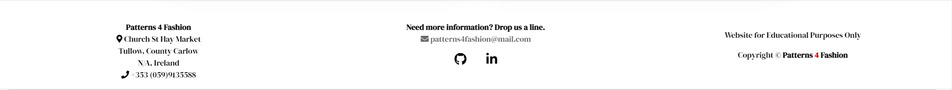
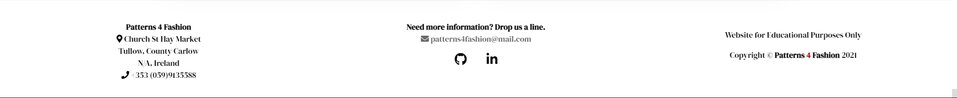
Fix carousel image  responsiveness on mobile

diff --git a/static/css/base.css b/static/css/base.css
@@ -359,7 +359,7 @@ input[name='q']::placeholder {
 
 @media (max-width: 991px) {
     .header-container {
-        padding-top: 60px;
+        padding-top: 78px;
     }
 
     body {
@@ -384,11 +384,11 @@ input[name='q']::placeholder {
     }
 
     .cover-text {
-        top: -80px;
+        top: -120px;
         font-size: 120%;
         width: 240px;
         height: 130px;
-        padding-top: 30px;
+        padding-top: 20px;
         position: absolute;
     }
 
@@ -404,6 +404,17 @@ input[name='q']::placeholder {
 
     .container-fluid {
         padding-bottom: -20px;
+    }
+
+    .carousel-item > img {
+        object-fit: cover;
+        height: calc(100vh - 380px);
+        width: 100%;
+    }
+
+    section .container-fluid {
+        height: 50px;
+        font-size: medium;
     }
 }
 
@@ -436,11 +447,11 @@ input[name='q']::placeholder {
     }
 
     .cover-text {
-        top: -60px;
+        top: -90px;
         font-size: 120%;
         width: 207px;
         height: 100px;
-        padding-top: 20px;
+        padding-top: 10px;
         position: absolute;
     }
 
@@ -452,5 +463,9 @@ input[name='q']::placeholder {
         width: 180px;
         height: 35px;
         font-size: 70%;
+    }
+
+    .header-container {
+        padding-top: 60px;
     }
 }

diff --git a/home/templates/home/index.html b/home/templates/home/index.html
@@ -70,6 +70,18 @@
             </div>
         </div>
     </div>
+    <section class="container-fluid pl-0 pr-0">
+        <div class="row no-gutters">
+            <div class="col-12 text-center">
+                <div class="card border-0 bg-white">
+                    <div class="card-img-overlay">
+                        <h2 class="card-title text-muted">"Care for your clothes, like the good friends they are."</h2>
+                        <p class="card-text text-muted"><em>Joan Crawford</em></p>
+                    </div>
+                </div>
+            </div>
+        </div>
+    </section>
     <div class="container">
         <div class="row justify-content-center">
             <div class="col-12 col-md-5 offset-1 mr-0 ml-0 d-block">

diff --git a/static/js/scripts.js b/static/js/scripts.js
@@ -1,6 +1,1 @@
 $('.toast').toast('show');
-$(document).ready(function(){
-    $(".sidenav").sidenav();
-    $('select').formSelect();
-    $('#copyright').text(new Date().getFullYear());
-});

diff --git a/README.md b/README.md
@@ -115,9 +115,10 @@ the Product Management page where the superuser can add products to the site.
     -   Contains 3 sections:
         -   Adress and Telephone.
         -   Email address and Social Media links
-        -    
+        -   Site's @ copyright registration 
 -   ![footer](static/navbar/footer.jpg)
 ## Home app
+
 ## Profiles app
 1. Registration form fields: Email, Email Confirmation, Username, Password and Password confirmation.
 1. Log in form fields: Username and Password.
